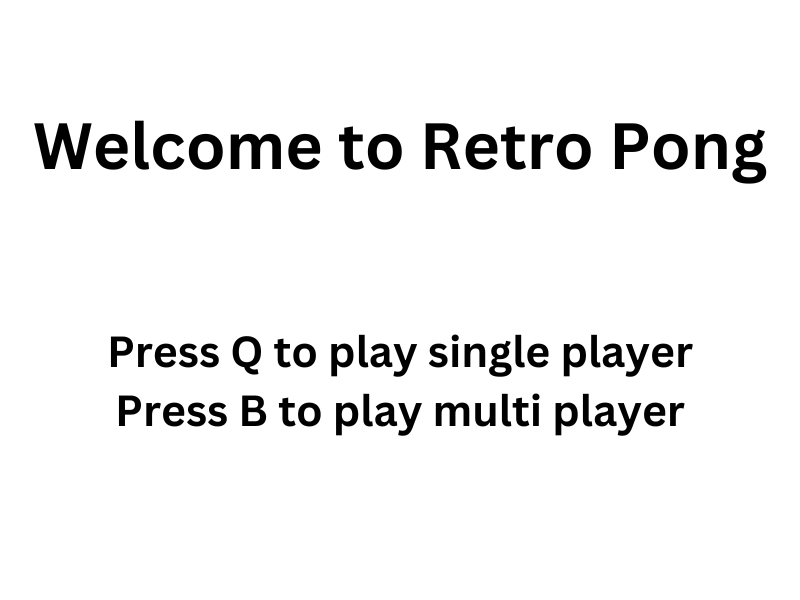
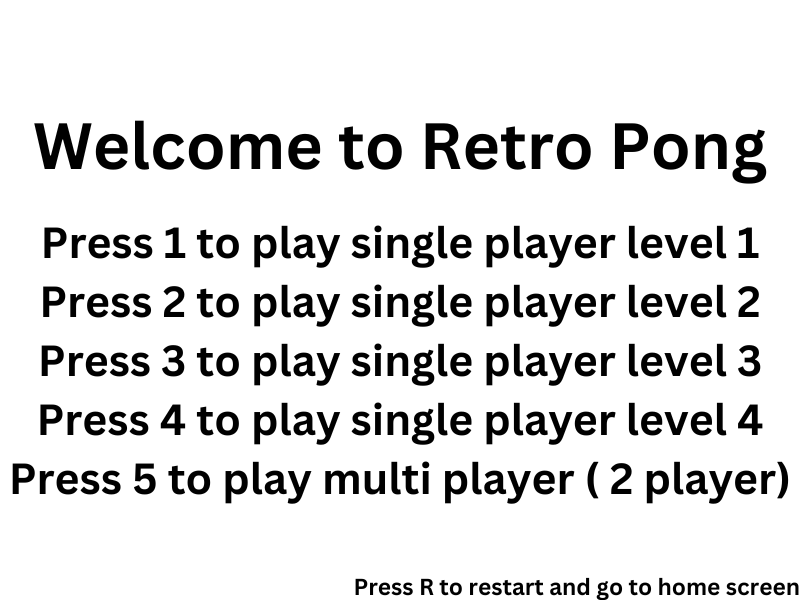
GAME WORKS AND IS FINISHED(except minor bugs)

Changed region(s): [[0.0, 0.48, 1.0, 0.84], [0.0312, 0.36, 0.9688, 0.45], [0.4375, 0.96, 1.0, 1.0]]

diff --git a/src/Game.java b/src/Game.java
@@ -55,7 +55,7 @@ public class Game extends JPanel implements Runnable, KeyListener{
 	private int Brick_H;
 	private int level;
 	private boolean start1;
-	
+	private Pictures HomeBi;
 
 	
 	private Brick b1;
@@ -64,6 +64,8 @@ public class Game extends JPanel implements Runnable, KeyListener{
 		back=null;
 		new Thread(this).start();
 		this.addKeyListener(this);
+
+		HomeBi = new Pictures("Homescreen Background.png", 0,0,785, 560);
 		
 		key=-1;
 		player = new Paddle(10, 300, 20, 100,0 ,0, Color.BLACK);
@@ -368,8 +370,8 @@ public int getRandNum() {
 			else if (player2.getScore() > 4) {
 				g2d.setColor(Color.RED);
 				g2d.drawString("Player 2 Wins!!!", 350, 150);
+
 			}
-			
 			break;
 			
 			
@@ -377,7 +379,8 @@ public int getRandNum() {
 			g2d.clearRect(0, 0, getSize().width, getSize().height); 
 			g2d.drawImage(new ImageIcon(background2.getPic()).getImage(), background2.getX(), background2.getY(), background2.getwidth(), background2.getheight() , this);
 
-				
+			g2d.drawString("LIVES:" + lives2, 50, 480);
+
 				drawBricks1(g2d);
 				//level = 1;
 				//BrickList = setBricks();
@@ -417,7 +420,17 @@ public int getRandNum() {
 					System.out.println("Why is the game not loosing");
 				}
 				
-				
+				if (lives2 == 0) {
+					g2d.setColor(Color.BLUE);
+					g2d.drawRect(0,0,1000,1000);
+					g2d.drawString("YOU LOSE", 300, 500);
+				} else if (BrickList1.size() == 0 || BrickList2.size() == 0 ||BrickList3.size() == 0 || BrickList4.size() == 0) {
+					g2d.setColor(Color.RED);
+					g2d.drawRect(0,0,1000,1000);
+					g2d.drawString("YOU WIN", 300, 500);
+					ball2.setDx(0);
+					ball2.setDy(0);
+				}
 				
 			break;	
 			
@@ -426,7 +439,8 @@ public int getRandNum() {
 					//len3 = BrickList3.size();
 					
 					g2d.drawImage(new ImageIcon(background2.getPic()).getImage(), background2.getX(), background2.getY(), background2.getwidth(), background2.getheight() , this);								
-					
+					g2d.drawString("LIVES:" + lives3, 50, 480);
+
 					
 					drawBricks2(g2d);
 
@@ -466,6 +480,18 @@ public int getRandNum() {
 
 					}
 				 */ 
+
+				 if (lives3 == 0) {
+					g2d.setColor(Color.BLUE);
+					g2d.drawRect(0,0,1000,1000);
+					g2d.drawString("YOU LOSE", 300, 500);
+				} else if (BrickList1.size() == 0 || BrickList2.size() == 0 ||BrickList3.size() == 0 || BrickList4.size() == 0) {
+					g2d.setColor(Color.RED);
+					g2d.drawRect(0,0,1000,1000);
+					g2d.drawString("YOU WIN", 300, 500);
+					ball2.setDx(0);
+					ball2.setDy(0);
+				}
 				break;
 			
 				case'W':
@@ -484,7 +510,7 @@ public int getRandNum() {
 				break;
 			case 'N':
 			g2d.drawImage(new ImageIcon(background2.getPic()).getImage(), background2.getX(), background2.getY(), background2.getwidth(), background2.getheight() , this);								
-
+			g2d.drawString("LIVES:" + lives4, 50, 480);
 			drawBricks3(g2d);
 			//System.out.println("IT SHOULD BE RUNNING");
 
@@ -517,9 +543,26 @@ public int getRandNum() {
 					ball4.setmoveUp();
 
 				}
+
+				if (lives4 == 0) {
+					g2d.setColor(Color.BLUE);
+					g2d.drawRect(0,0,1000,1000);
+					g2d.setColor(Color.WHITE);
+
+					g2d.drawString("YOU LOSE", 300, 500);
+				} else if (BrickList1.size() == 0 || BrickList2.size() == 0 ||BrickList3.size() == 0 || BrickList4.size() == 0) {
+					g2d.setColor(Color.GREEN);
+					g2d.drawRect(0,0,1000,1000);
+					g2d.setColor(Color.WHITE);
+					g2d.drawString("YOU WIN", 300, 500);
+					ball2.setDx(0);
+					ball2.setDy(0);
+				}
+
  				break;
 				 case 'H':
 				 g2d.drawImage(new ImageIcon(background2.getPic()).getImage(), background2.getX(), background2.getY(), background2.getwidth(), background2.getheight() , this);								
+				 g2d.drawString("LIVES:" + lives5, 50, 480);
 
 				 drawBricks4(g2d);
 				// System.out.println("IT SHOULD BE RUNNING case H");
@@ -552,7 +595,18 @@ public int getRandNum() {
 						 ball5.setmoveUp();
 					 }
 
-					 
+					 if (lives5 == 0) {
+						g2d.setColor(Color.BLUE);
+						g2d.drawRect(0,0,1000,1000);
+						g2d.drawString("YOU LOSE", 300, 500);
+					} else if (BrickList1.size() == 0 || BrickList2.size() == 0 ||BrickList3.size() == 0 || BrickList4.size() == 0) {
+						g2d.setColor(Color.RED);
+						g2d.drawRect(0,0,1000,1000);
+						g2d.drawString("YOU WIN", 300, 500);
+						ball2.setDx(0);
+						ball2.setDy(0);
+					}
+
 					  break;
 				 }
 			}
@@ -725,11 +779,8 @@ public boolean collision4() {
 	
 	public void drawStartScreen(Graphics g2d) {
 		//create start screen
-		g2d.setFont(new Font("Broadway", Font.BOLD, 50));
-		g2d.setColor(Color.white);
-		g2d.drawString("Welcome Retro Pong", 200, 400);
-		g2d.drawString("Press B to begin", 200, 600);
-		g2d.drawString("Select the game you want to play!", 200, 800);
+		g2d.drawImage(new ImageIcon(HomeBi.getPic()).getImage(), HomeBi.getX(), HomeBi.getY(), HomeBi.getwidth(), HomeBi.getheight(),this);
+		
 	}
 	
 	
@@ -834,9 +885,18 @@ public boolean collision4() {
 			start1 = true;
 
 			lives = 3;
+			lives2 = 3;
+			lives3 = 3;
+			lives4 = 3;
+			lives5 = 3;
+		 
 
 
-			
+		BrickList1=setBricks1();
+		BrickList2=setBricks2();
+		BrickList3=setBricks3();
+		BrickList4=setBricks4();
+
 			//R
 		}
 		if (key==66) {
